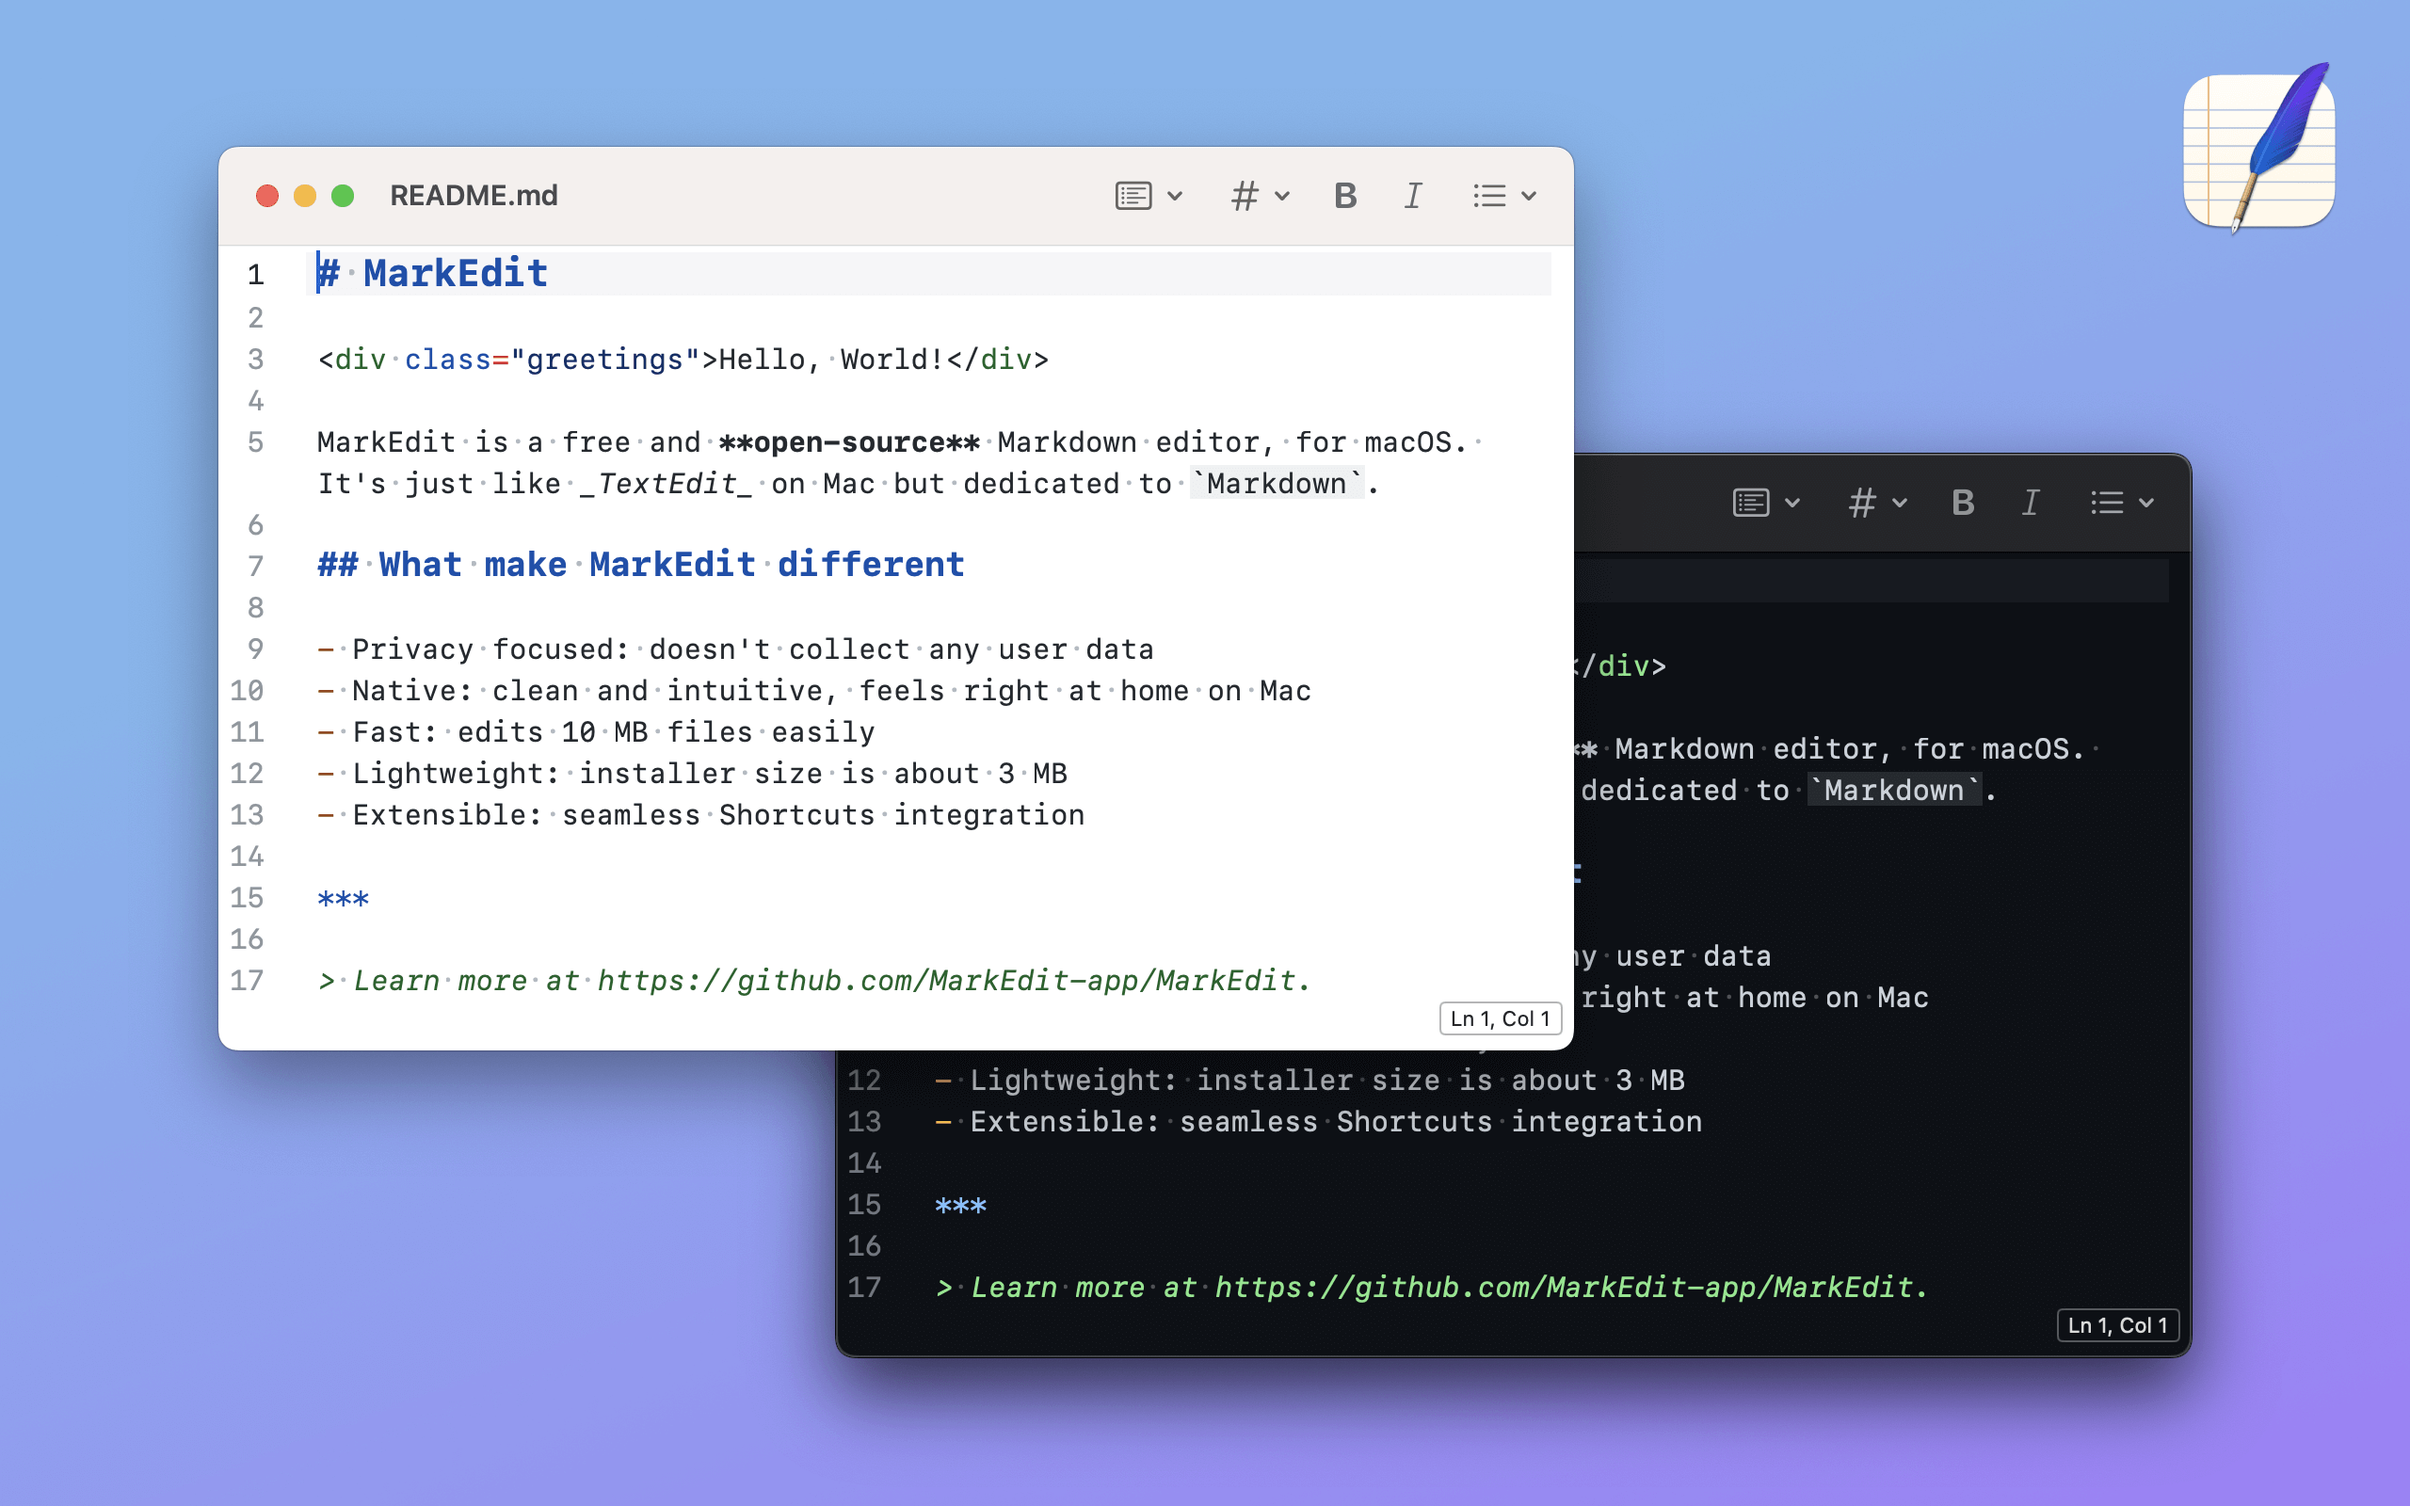
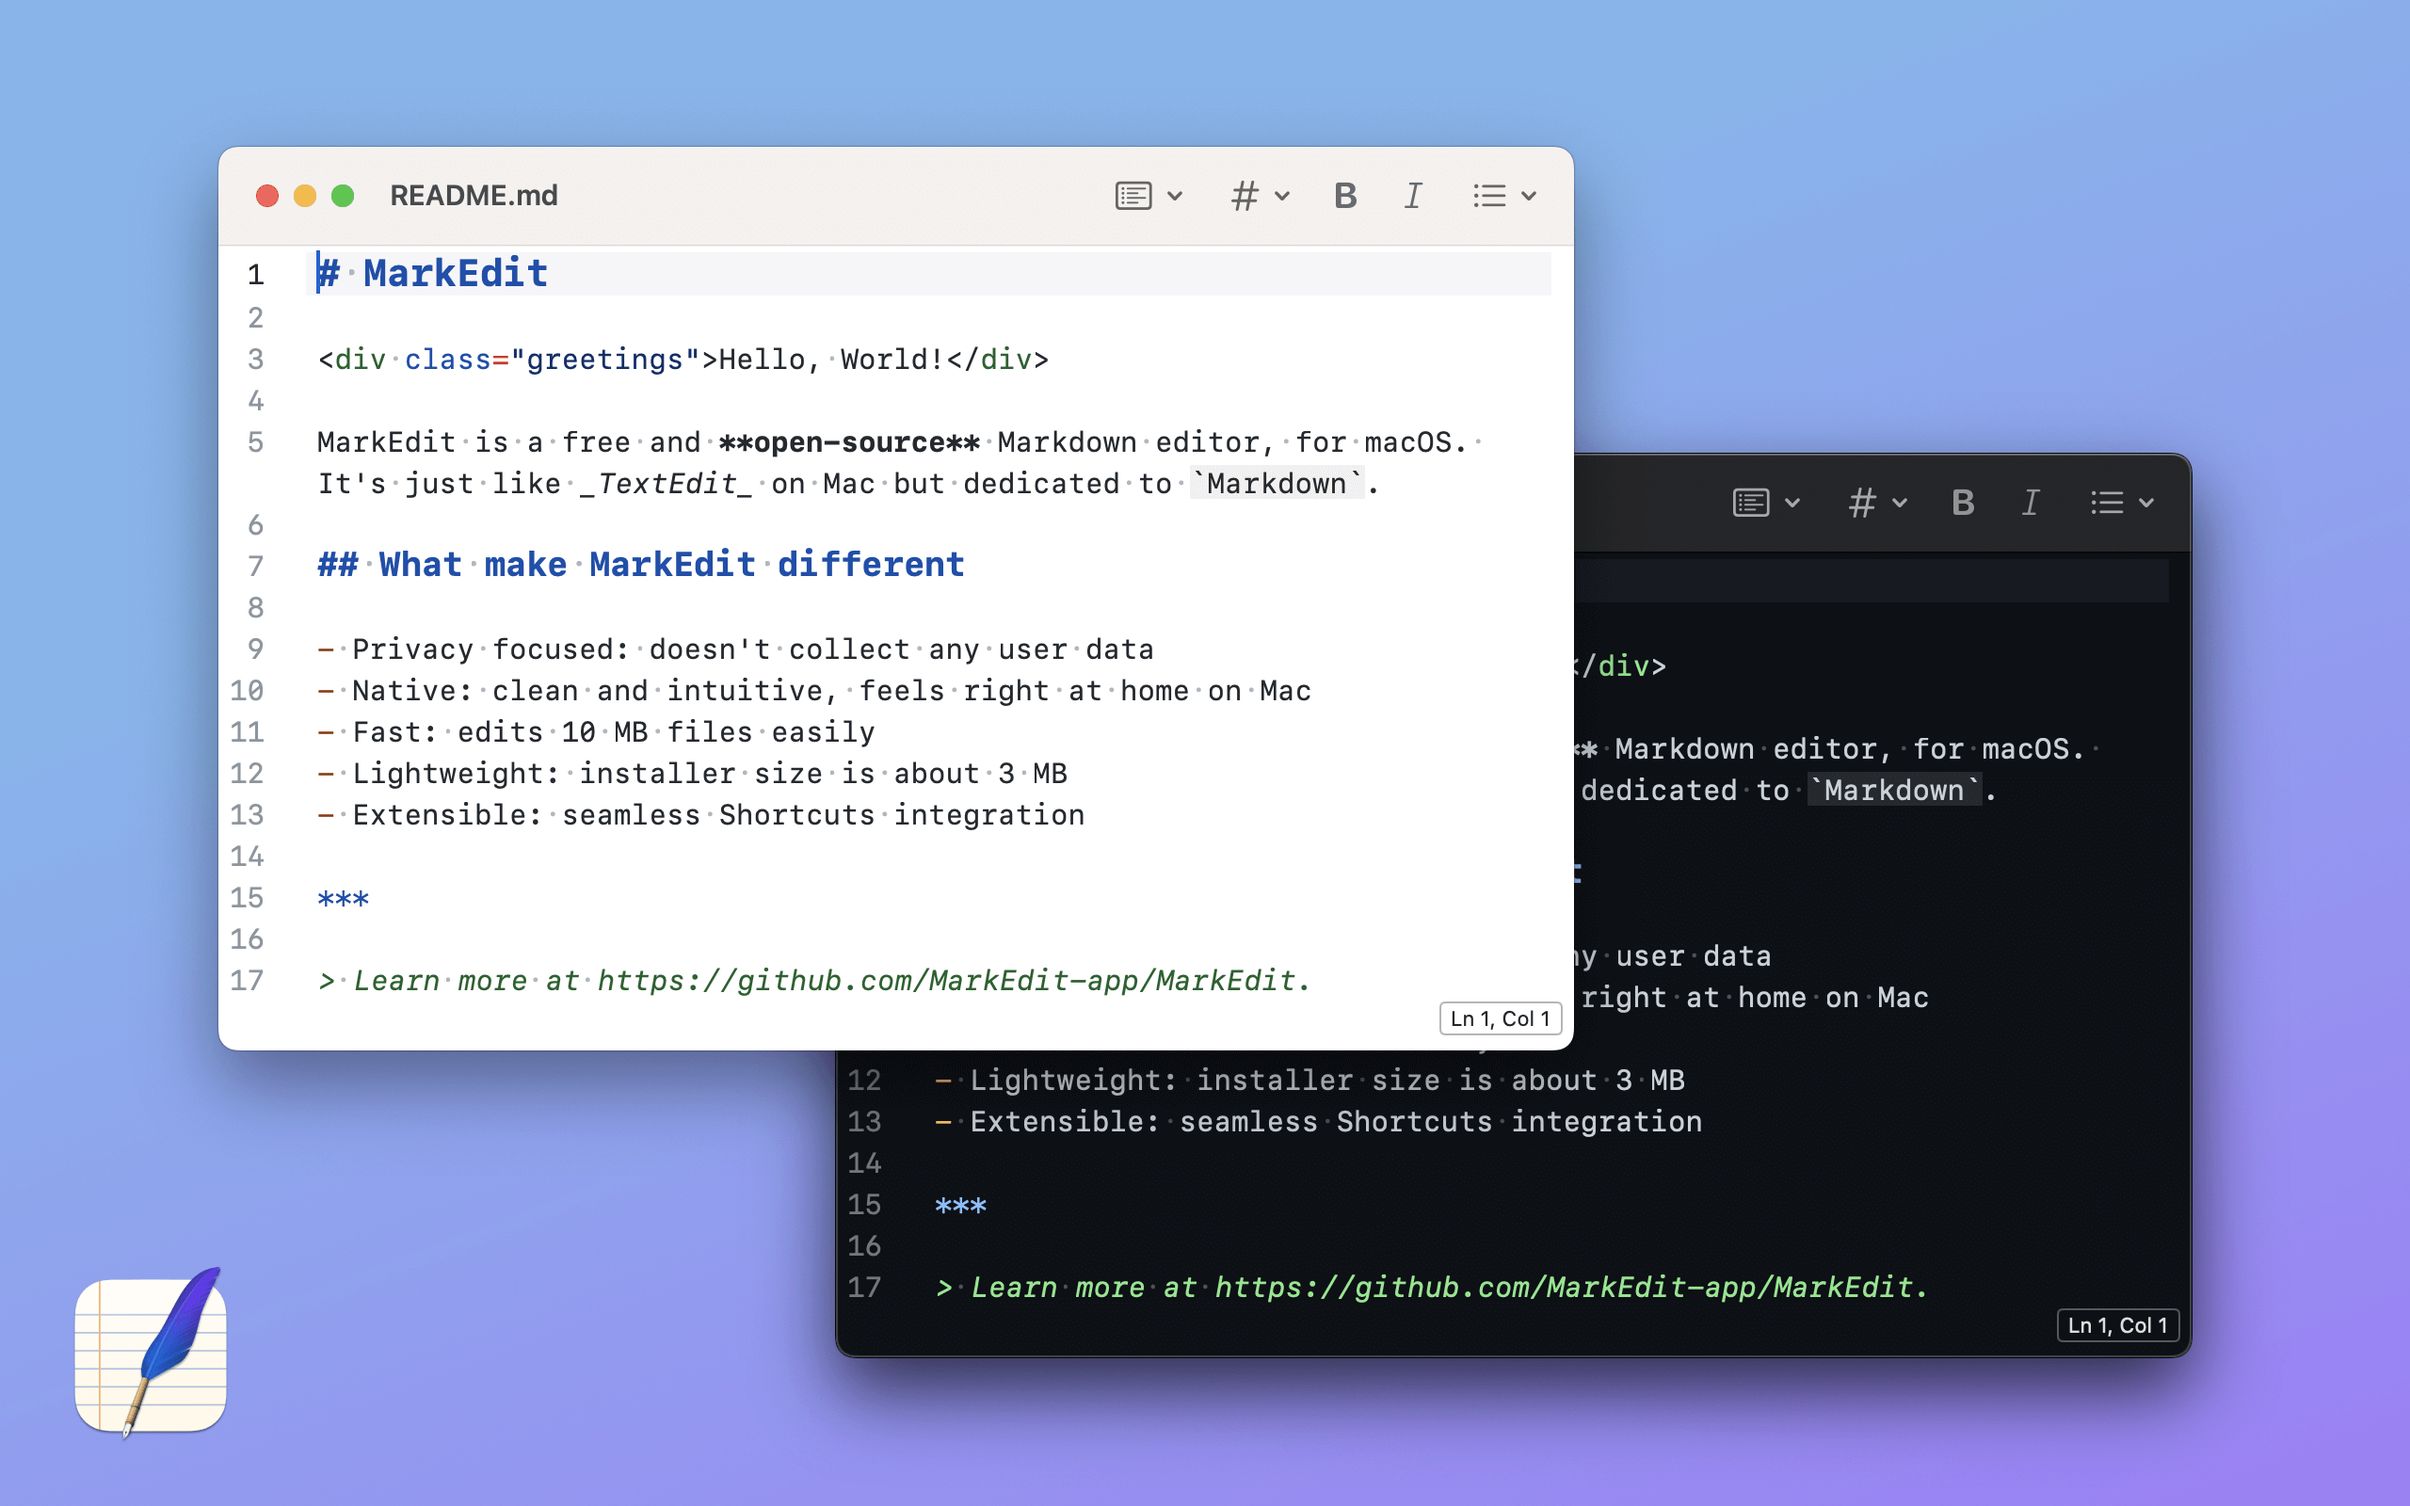
New options: insertFinalNewline, trimTrailingWhitespace (#141)
* Add options to setting view

* Add method stub

* Implement formatContent

* Remove unnecessary tricks

* nit-picking

* More comments

* Update screenshots

Changed region(s): [[0.9062, 0.0312, 0.9688, 0.1562], [0.0312, 0.8438, 0.0938, 0.9688]]

diff --git a/MarkEditMac/Sources/Settings/AssistantSettingsView.swift b/MarkEditMac/Sources/Settings/AssistantSettingsView.swift
@@ -9,6 +9,8 @@ import SwiftUI
 import SettingsUI
 
 struct AssistantSettingsView: View {
+  @State private var insertFinalNewline = AppPreferences.Assistant.insertFinalNewline
+  @State private var trimTrailingWhitespace = AppPreferences.Assistant.trimTrailingWhitespace
   @State private var wordsInDocument = AppPreferences.Assistant.wordsInDocument
   @State private var standardWords = AppPreferences.Assistant.standardWords
   @State private var guessedWords = AppPreferences.Assistant.guessedWords
@@ -16,6 +18,28 @@ struct AssistantSettingsView: View {
 
   var body: some View {
     SettingsForm {
+      Section {
+        VStack(alignment: .leading) {
+          Toggle(isOn: $insertFinalNewline) {
+            Text(Localized.Settings.insertFinalNewline)
+          }
+          .onChange(of: insertFinalNewline) {
+            AppPreferences.Assistant.insertFinalNewline = $0
+          }
+
+          Toggle(isOn: $trimTrailingWhitespace) {
+            Text(Localized.Settings.trimTrailingWhitespace)
+          }
+          .onChange(of: trimTrailingWhitespace) {
+            AppPreferences.Assistant.trimTrailingWhitespace = $0
+          }
+
+          Text(Localized.Settings.fileFormattingHint)
+            .formDescription()
+        }
+        .formLabel(alignment: .top, Localized.Settings.formatFiles)
+      }
+
       Section {
         VStack(alignment: .leading) {
           Toggle(isOn: $wordsInDocument) {
@@ -40,8 +64,7 @@ struct AssistantSettingsView: View {
           }
 
           Text(Localized.Settings.completionHint)
-            .font(.system(size: 12))
-            .foregroundStyle(.secondary)
+            .formDescription()
         }
         .formLabel(alignment: .top, Localized.Settings.completion)
       }

diff --git a/CoreEditor/src/modules/commands/formatContent.ts b/CoreEditor/src/modules/commands/formatContent.ts
@@ -1,0 +1,37 @@
+/**
+ * Format the content, usually gets called when saving files.
+ *
+ * @param insertFinalNewline Whether to insert newline at end of file
+ * @param trimTrailingWhitespace Whether to remove trailing whitespaces
+ */
+export default function formatContent(insertFinalNewline: boolean, trimTrailingWhitespace: boolean) {
+  const editor = window.editor;
+  const state = editor.state;
+
+  if (insertFinalNewline) {
+    // We don't need to ensure final newline when it's empty
+    const text = state.doc.toString();
+    if (text.length > 0 && !text.endsWith(state.lineBreak)) {
+      editor.dispatch({
+        changes: {
+          insert: state.lineBreak,
+          from: state.doc.length,
+        },
+      });
+    }
+  }
+
+  if (trimTrailingWhitespace) {
+    // We need to update reversely to avoid index shift
+    for (let index = state.doc.lines; index >= 1; --index) {
+      const line = state.doc.line(index);
+      const match = /\s+$/g.exec(line.text);
+      if (match !== null) {
+        const from = match.index + line.from;
+        editor.dispatch({
+          changes: { insert: '', from, to: line.to },
+        });
+      }
+    }
+  }
+}

diff --git a/CoreEditor/src/bridge/web/format.ts b/CoreEditor/src/bridge/web/format.ts
@@ -14,6 +14,7 @@ import {
   insertCodeBlock,
   insertMathBlock,
   insertHorizontalRule,
+  formatContent,
   performEditCommand,
 } from '../../modules/commands';
 
@@ -40,6 +41,7 @@ export interface WebModuleFormat extends WebModule {
   insertHorizontalRule(): void;
   insertHyperLink({ title, url, prefix }: { title: string; url: string; prefix?: string }): void;
   insertTable({ columnName, itemName }: { columnName: string; itemName: string }): void;
+  formatContent({ insertFinalNewline, trimTrailingWhitespace }: { insertFinalNewline: boolean; trimTrailingWhitespace: boolean }): void;
   performEditCommand({ command }: { command: EditCommand }): void;
 }
 
@@ -102,6 +104,10 @@ export class WebModuleFormatImpl implements WebModuleFormat {
 
   insertTable({ columnName, itemName }: { columnName: string; itemName: string }): void {
     insertTable(columnName, itemName);
+  }
+
+  formatContent({ insertFinalNewline, trimTrailingWhitespace }: { insertFinalNewline: boolean; trimTrailingWhitespace: boolean }): void {
+    formatContent(insertFinalNewline, trimTrailingWhitespace);
   }
 
   performEditCommand({ command }: { command: EditCommand }): void {

diff --git a/MarkEditMac/Sources/Main/AppResources.swift b/MarkEditMac/Sources/Main/AppResources.swift
@@ -120,6 +120,10 @@ enum Localized {
 
     // Assistant
     static let assistant = String(localized: "Assistant", comment: "Window title for assistant settings")
+    static let formatFiles = String(localized: "Format Files:", comment: "Label for file formatting options")
+    static let insertFinalNewline = String(localized: "Insert final newline", comment: "Option for inserting newline at end of file")
+    static let trimTrailingWhitespace = String(localized: "Trim trailing whitespace", comment: "Option for trimming trailing whitespaces")
+    static let fileFormattingHint = String(localized: "Format when saving files.", comment: "Hint for format files on save")
     static let completion = String(localized: "Completion:", comment: "Label for word completion options")
     static let wordsInDocument = String(localized: "Words in document", comment: "Option for words in documents suggestion")
     static let standardWords = String(localized: "Standard words", comment: "Option for standard words suggestion")

diff --git a/MarkEditMac/Sources/Editor/Models/EditorDocument.swift b/MarkEditMac/Sources/Editor/Models/EditorDocument.swift
@@ -199,6 +199,21 @@ extension EditorDocument {
 
 private extension EditorDocument {
   func saveAsynchronously(saveAction: () -> Void) async {
+    let insertFinalNewline = AppPreferences.Assistant.insertFinalNewline
+    let trimTrailingWhitespace = AppPreferences.Assistant.trimTrailingWhitespace
+
+    // Format when saving files, only if at least one option is enabled
+    if insertFinalNewline || trimTrailingWhitespace {
+      await withCheckedContinuation { continuation in
+        hostViewController?.bridge.format.formatContent(
+          insertFinalNewline: insertFinalNewline,
+          trimTrailingWhitespace: trimTrailingWhitespace
+        ) { _ in
+          continuation.resume()
+        }
+      }
+    }
+
     guard let editorText = await hostViewController?.editorText else {
       return
     }

diff --git a/MarkEditMac/Sources/Main/AppPreferences.swift b/MarkEditMac/Sources/Main/AppPreferences.swift
@@ -142,6 +142,12 @@ enum AppPreferences {
   }
 
   enum Assistant {
+    @Storage(key: "assistant.insert-final-newline", defaultValue: false)
+    static var insertFinalNewline: Bool
+
+    @Storage(key: "assistant.trim-trailing-whitespace", defaultValue: false)
+    static var trimTrailingWhitespace: Bool
+
     @Storage(key: "assistant.words-in-document", defaultValue: true)
     static var wordsInDocument: Bool
 

diff --git a/CoreEditor/src/modules/commands/index.ts b/CoreEditor/src/modules/commands/index.ts
@@ -1,3 +1,4 @@
+import formatContent from './formatContent';
 import toggleBlockWithMarks from './toggleBlockWithMarks';
 import toggleLineLeadingMark from './toggleLineLeadingMark';
 import toggleListStyle from './toggleListStyle';
@@ -100,4 +101,5 @@ export function performEditCommand(command: EditCommand) {
   }
 }
 
+export { formatContent };
 export type { EditCommand };

diff --git a/MarkEditMac/Modules/Sources/SettingsUI/Extensions/View+Extension.swift b/MarkEditMac/Modules/Sources/SettingsUI/Extensions/View+Extension.swift
@@ -30,6 +30,10 @@ public extension View {
   func formHorizontalRadio() -> some View {
     pickerStyle(.radioGroup).horizontalRadioGroupLayout()
   }
+
+  func formDescription() -> some View {
+    font(.system(size: 12)).foregroundStyle(.secondary)
+  }
 }
 
 // MARK: - Private
